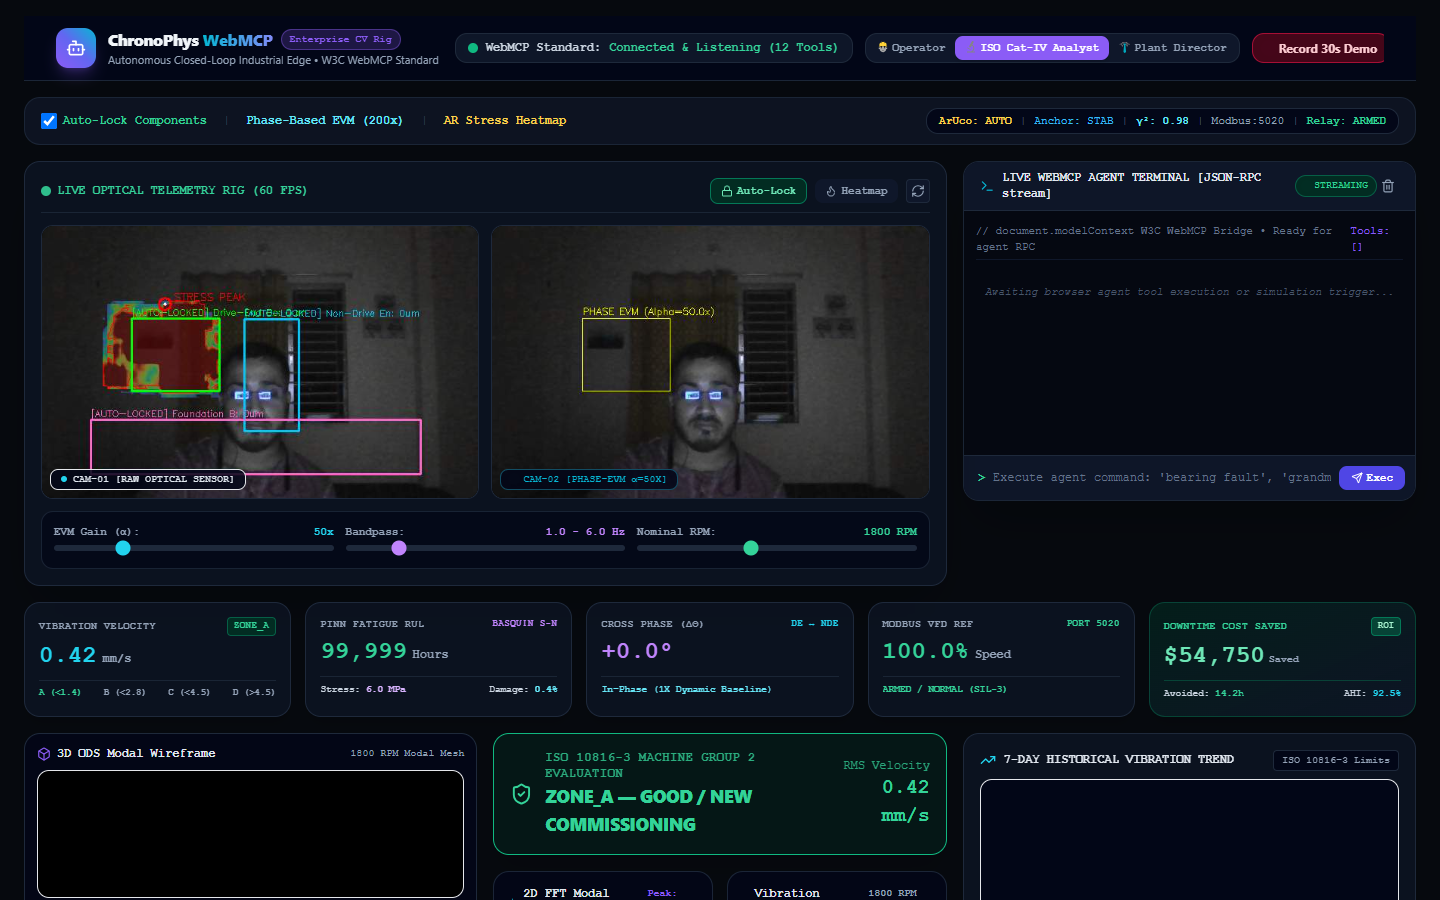
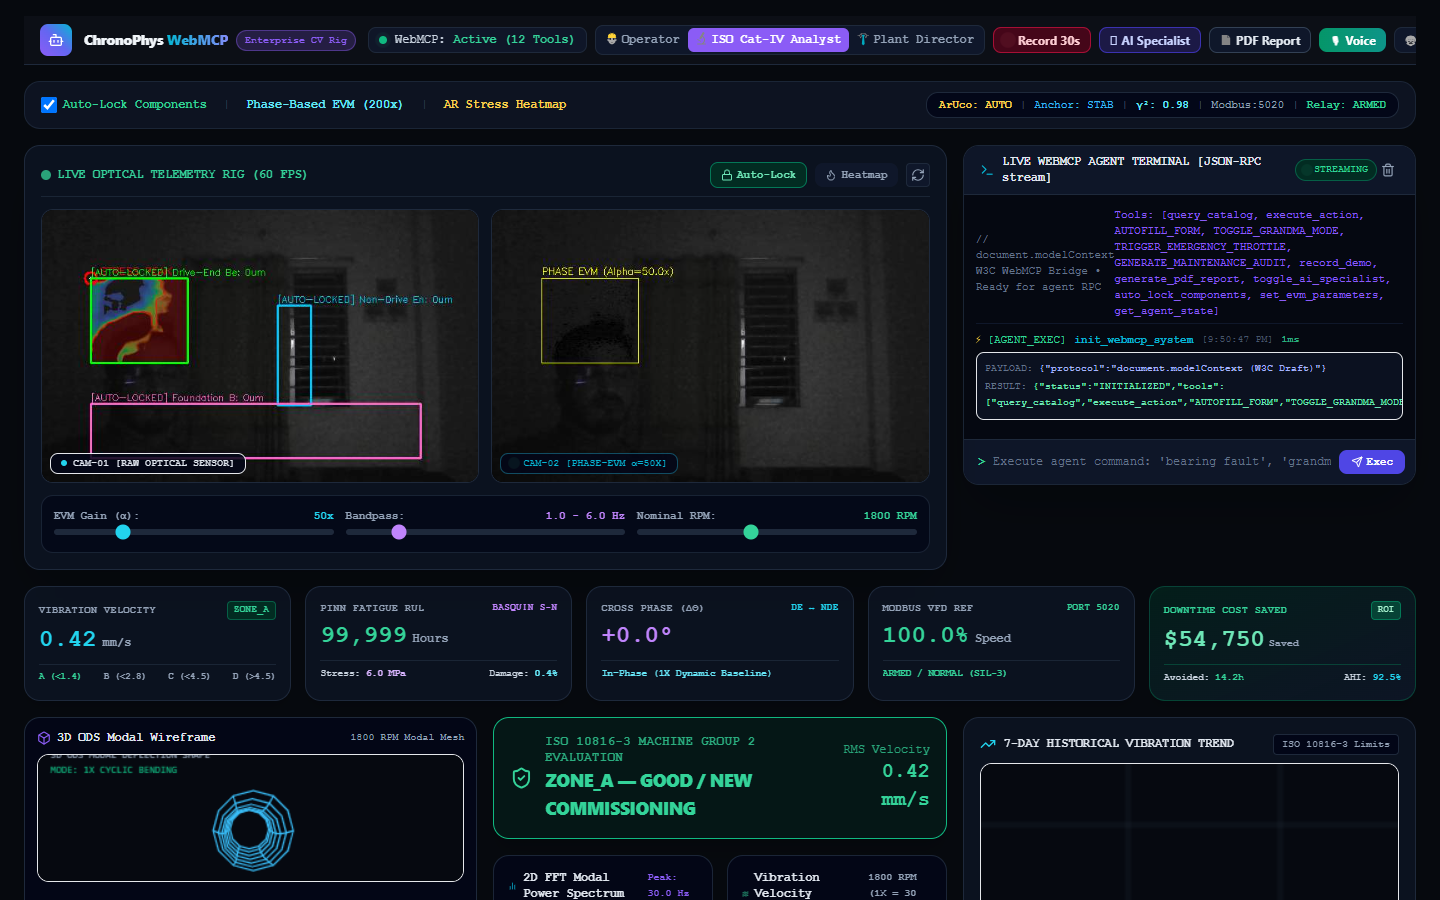
fix(navbar): refine top header layout to single-row flexbox with non-shrinking flex groups and compact button sizing

diff --git a/components/Navbar.tsx b/components/Navbar.tsx
@@ -1,17 +1,11 @@
 "use client";
 
-import React, { useState } from 'react';
+import React from 'react';
 import { useWebMCP } from './WebMCPProvider';
-import { dispatchWebMCPAction } from '@/lib/webmcp-tools';
 import { 
   Bot, 
-  Sparkles, 
   Terminal, 
-  Eye, 
-  CheckCircle2, 
-  Layers, 
   Zap,
-  Play
 } from 'lucide-react';
 
 interface NavbarProps {
@@ -41,32 +35,6 @@ export const Navbar: React.FC<NavbarProps> = ({
 }) => {
   const { isReady, registeredTools, grandmaMode, toggleGrandmaMode, activeActionEffect } = useWebMCP();
 
-  const handleSimulateNormal = () => {
-    dispatchWebMCPAction('RESET_STATE', {}, 'human-simulation', 'execute_action');
-    dispatchWebMCPAction('AUTOFILL_FORM', {
-      customerName: 'Engineering Commissioning Team',
-      email: 'plant.ops@megawatt-turbines.com',
-      company: 'Megawatt Energy Station 4',
-      serviceCategory: 'ai-edge',
-      urgencyLevel: 'standard',
-      notes: 'Commissioning baseline: 1800 RPM shaft vibration in ISO Zone A (v_RMS = 0.42 mm/s). Nominal structural stability.',
-      itemId: 'prod-001'
-    }, 'human-simulation', 'execute_action');
-  };
-
-  const handleSimulateBearingFault = () => {
-    dispatchWebMCPAction('FILTER_CATALOG', { category: 'industrial' }, 'human-simulation', 'execute_action');
-    dispatchWebMCPAction('AUTOFILL_FORM', {
-      customerName: 'Emergency Trip Control Desk',
-      email: 'safety-trip@val-verde.power',
-      company: 'Val Verde Hydroelectric Facility',
-      serviceCategory: 'industrial',
-      urgencyLevel: 'emergency',
-      notes: 'CRITICAL ALARM: BPFO high-frequency bearing outer-race fault detected at 142.5 Hz. v_RMS = 7.85 mm/s (ISO ZONE_D). Hardware SIL-3 trip required!',
-      itemId: 'prod-004'
-    }, 'human-simulation', 'execute_action');
-  };
-
   const roles: Array<{ id: 'operator' | 'analyst' | 'manager'; label: string; icon: string }> = [
     { id: 'operator', label: 'Operator', icon: '👷' },
     { id: 'analyst', label: 'ISO Cat-IV Analyst', icon: '🔬' },
@@ -74,160 +42,152 @@ export const Navbar: React.FC<NavbarProps> = ({
   ];
 
   return (
-    <header className="sticky top-0 z-40 w-full border-b border-slate-800/90 bg-slate-950/95 backdrop-blur-md">
-      <div className="w-full max-w-[1700px] mx-auto px-4 sm:px-6 lg:px-8 h-16 flex items-center justify-between gap-4">
-        
-        {/* Brand & Standard Tag */}
-        <div className="flex items-center space-x-3 flex-shrink-0">
-          <div className="w-10 h-10 rounded-xl bg-gradient-to-tr from-mcp-purple via-indigo-500 to-mcp-cyan flex items-center justify-center text-white shadow-lg shadow-mcp-purple/25">
-            <Bot className="w-5 h-5" />
-          </div>
-          <div>
-            <div className="flex items-center space-x-2">
-              <h1 className="font-extrabold text-sm sm:text-base text-slate-100 tracking-tight">
-                ChronoPhys <span className="text-transparent bg-clip-text bg-gradient-to-r from-mcp-cyan to-indigo-400">WebMCP</span>
-              </h1>
-              <span className="hidden sm:inline-flex text-[10px] font-mono px-2 py-0.5 rounded-full bg-mcp-purple/20 text-mcp-purple border border-mcp-purple/40 font-bold">
-                Enterprise CV Rig
-              </span>
-            </div>
-            <p className="text-[11px] text-slate-400">Autonomous Closed-Loop Industrial Edge • W3C WebMCP Standard</p>
-          </div>
+    <header className="w-full flex items-center justify-between px-4 py-2 bg-[#0c1017]/90 border-b border-slate-800 gap-3 whitespace-nowrap overflow-x-hidden sticky top-0 z-40 backdrop-blur-md">
+      
+      {/* Left Group: Logo + Brand + Standard Tag */}
+      <div className="flex items-center gap-3 flex-shrink-0">
+        <div className="w-8 h-8 rounded-lg bg-gradient-to-tr from-mcp-purple via-indigo-500 to-mcp-cyan flex items-center justify-center text-white shadow-md flex-shrink-0">
+          <Bot className="w-4 h-4" />
         </div>
-
-        {/* Action Indicators & Simulation Controls */}
-        <div className="flex items-center space-x-2 sm:space-x-3 overflow-x-auto py-1 scrollbar-none">
-          
-          {/* Active Action Pulse Notification */}
-          {activeActionEffect && (
-            <div className="hidden xl:flex items-center space-x-1.5 px-3 py-1 rounded-full bg-emerald-950/90 border border-emerald-400 text-emerald-300 text-xs font-mono animate-pulse shadow-[0_0_15px_rgba(52,211,153,0.3)]">
-              <Zap className="w-3.5 h-3.5 text-emerald-400" />
-              <span>Agent Event: <b className="text-white">{activeActionEffect}</b></span>
-            </div>
-          )}
-
-          {/* WebMCP Bridge Status Pill */}
-          <div className="flex items-center space-x-2 px-3 py-1.5 rounded-xl bg-slate-900/90 border border-slate-800 text-xs font-mono shadow-sm flex-shrink-0">
-            <span className="relative flex h-2.5 w-2.5">
-              <span className="animate-ping absolute inline-flex h-full w-full rounded-full bg-emerald-400 opacity-75"></span>
-              <span className="relative inline-flex rounded-full h-2.5 w-2.5 bg-emerald-500"></span>
-            </span>
-            <span className="text-slate-300 font-semibold hidden md:inline">
-              WebMCP Standard:
-            </span>
-            <span className="text-emerald-400 font-bold">
-              Connected & Listening ({registeredTools.length || 12} Tools)
-            </span>
-          </div>
-
-          {/* Enterprise Role Switcher (RBAC) */}
-          {onRoleChange && (
-            <div className="flex items-center bg-slate-900 border border-slate-800 rounded-xl p-0.5 text-[11px] font-mono font-bold flex-shrink-0">
-              {roles.map((r) => {
-                const isActive = userRole === r.id;
-                return (
-                  <button
-                    key={r.id}
-                    onClick={() => onRoleChange(r.id)}
-                    className={`px-2.5 py-1 rounded-lg transition flex items-center space-x-1 ${
-                      isActive
-                        ? 'bg-mcp-purple text-white shadow-md'
-                        : 'text-slate-400 hover:text-slate-200'
-                    }`}
-                    title={`Switch Role: ${r.label}`}
-                  >
-                    <span>{r.icon}</span>
-                    <span className="hidden lg:inline">{r.label}</span>
-                  </button>
-                );
-              })}
-            </div>
-          )}
-
-          {/* Record 30s Demo Button with Visual Countdown */}
-          {onRecordDemo && (
-            <button
-              onClick={onRecordDemo}
-              disabled={recordingSecondsLeft > 0}
-              className={`flex items-center space-x-1.5 px-3 py-1.5 rounded-xl border text-xs font-bold transition shadow-sm flex-shrink-0 ${
-                recordingSecondsLeft > 0
-                  ? 'bg-rose-600 text-white border-rose-400 animate-pulse shadow-[0_0_15px_rgba(244,63,94,0.6)]'
-                  : 'bg-rose-950/90 hover:bg-rose-900 border-rose-700/80 text-rose-200'
-              }`}
-              title="Record 30-second live multi-modal diagnostic session"
-            >
-              <span className="w-2 h-2 rounded-full bg-rose-400 animate-ping"></span>
-              <span>
-                {recordingSecondsLeft > 0 ? `Recording... ${recordingSecondsLeft}s` : 'Record 30s Demo'}
-              </span>
-            </button>
-          )}
-
-          {/* AI Specialist Modal Trigger */}
-          {onOpenAiSpecialist && (
-            <button
-              onClick={onOpenAiSpecialist}
-              className="flex items-center space-x-1.5 px-3 py-1.5 rounded-xl bg-indigo-950/90 hover:bg-indigo-900 border border-indigo-700/80 text-indigo-200 text-xs font-bold transition shadow-sm flex-shrink-0"
-              title="Open Gemini AI Vibration Diagnostic Specialist"
-            >
-              <span>🤖</span>
-              <span className="hidden sm:inline">AI Specialist</span>
-            </button>
-          )}
-
-          {/* PDF Report Generator Trigger */}
-          {onOpenPdfReport && (
-            <button
-              onClick={onOpenPdfReport}
-              className="flex items-center space-x-1.5 px-3 py-1.5 rounded-xl bg-slate-900 hover:bg-slate-800 border border-slate-700 text-slate-200 text-xs font-bold transition shadow-sm flex-shrink-0"
-              title="Generate certified ISO 17025 PDF compliance report"
-            >
-              <span>📄</span>
-              <span className="hidden sm:inline">PDF Report</span>
-            </button>
-          )}
-
-          {/* Voice Agent Trigger Button */}
-          {onOpenVoice && (
-            <button
-              onClick={onOpenVoice}
-              className="flex items-center space-x-1.5 px-3 py-1.5 rounded-xl bg-gradient-to-r from-emerald-600 to-teal-600 hover:from-emerald-500 hover:to-teal-500 text-white text-xs font-bold transition shadow-sm flex-shrink-0"
-              title="Hands-free plant voice-to-agent interface"
-            >
-              <span className="text-sm">🎙</span>
-              <span className="hidden sm:inline">Voice</span>
-            </button>
-          )}
-
-          {/* Grandma Mode Toggle Button */}
-          <button
-            onClick={toggleGrandmaMode}
-            className={`px-3 py-1.5 rounded-lg text-xs font-semibold flex items-center space-x-1.5 transition border ${
-              grandmaMode
-                ? 'bg-amber-400 text-slate-950 border-amber-300 shadow-lg shadow-amber-400/20'
-                : 'bg-slate-900 hover:bg-slate-800 text-slate-300 border-slate-800'
-            }`}
-            title="Toggle high-contrast Grandma Mode accessibility"
-          >
-            <span>👵</span>
-            <span className="hidden md:inline">{grandmaMode ? 'Grandma Active' : 'Grandma'}</span>
-          </button>
-
-          {/* Open Inspector Button */}
-          <button
-            onClick={onOpenInspector}
-            className={`p-2 rounded-lg border transition ${
-              isInspectorOpen 
-                ? 'bg-mcp-purple text-white border-mcp-purple' 
-                : 'bg-slate-900 text-slate-400 hover:text-white border-slate-800'
-            }`}
-            title="Toggle Agent Activity Inspector"
-          >
-            <Terminal className="w-4 h-4" />
-          </button>
-
+        <div className="flex items-center gap-2">
+          <h1 className="font-extrabold text-sm text-slate-100 tracking-tight">
+            ChronoPhys <span className="text-transparent bg-clip-text bg-gradient-to-r from-mcp-cyan to-indigo-400">WebMCP</span>
+          </h1>
+          <span className="hidden md:inline-flex text-[10px] font-mono px-2 py-0.5 rounded-full bg-mcp-purple/20 text-mcp-purple border border-mcp-purple/40 font-bold">
+            Enterprise CV Rig
+          </span>
         </div>
       </div>
+
+      {/* Right Group: Roles + Action Controls */}
+      <div className="flex items-center gap-2 flex-shrink-0">
+        
+        {/* Active Action Pulse Notification */}
+        {activeActionEffect && (
+          <div className="hidden xl:flex items-center gap-1.5 px-2.5 py-1 rounded-full bg-emerald-950/90 border border-emerald-400 text-emerald-300 text-xs font-mono animate-pulse">
+            <Zap className="w-3 h-3 text-emerald-400" />
+            <span>Agent: <b className="text-white">{activeActionEffect}</b></span>
+          </div>
+        )}
+
+        {/* WebMCP Bridge Status Pill */}
+        <div className="hidden lg:flex items-center gap-2 px-2.5 py-1 rounded-lg bg-slate-900/90 border border-slate-800 text-xs font-mono">
+          <span className="relative flex h-2 w-2">
+            <span className="animate-ping absolute inline-flex h-full w-full rounded-full bg-emerald-400 opacity-75"></span>
+            <span className="relative inline-flex rounded-full h-2 w-2 bg-emerald-500"></span>
+          </span>
+          <span className="text-slate-300 font-medium">WebMCP:</span>
+          <span className="text-emerald-400 font-bold">Active ({registeredTools.length || 12} Tools)</span>
+        </div>
+
+        {/* Enterprise Role Switcher (RBAC) */}
+        {onRoleChange && (
+          <div className="flex items-center bg-slate-900 border border-slate-800 rounded-lg p-0.5 text-xs font-mono font-bold">
+            {roles.map((r) => {
+              const isActive = userRole === r.id;
+              return (
+                <button
+                  key={r.id}
+                  onClick={() => onRoleChange(r.id)}
+                  className={`px-2 py-1 rounded-md transition flex items-center gap-1 text-xs ${
+                    isActive
+                      ? 'bg-mcp-purple text-white shadow-sm'
+                      : 'text-slate-400 hover:text-slate-200'
+                  }`}
+                  title={`Switch Role: ${r.label}`}
+                >
+                  <span>{r.icon}</span>
+                  <span className="hidden sm:inline text-xs">{r.label}</span>
+                </button>
+              );
+            })}
+          </div>
+        )}
+
+        {/* Record 30s Demo Button with Visual Countdown */}
+        {onRecordDemo && (
+          <button
+            onClick={onRecordDemo}
+            disabled={recordingSecondsLeft > 0}
+            className={`flex items-center gap-1.5 px-2.5 py-1 rounded-lg border text-xs font-bold transition shadow-sm ${
+              recordingSecondsLeft > 0
+                ? 'bg-rose-600 text-white border-rose-400 animate-pulse'
+                : 'bg-rose-950/90 hover:bg-rose-900 border-rose-700/80 text-rose-200'
+            }`}
+            title="Record 30-second live multi-modal diagnostic session"
+          >
+            <span className="w-2 h-2 rounded-full bg-rose-400 animate-ping"></span>
+            <span>
+              {recordingSecondsLeft > 0 ? `REC ${recordingSecondsLeft}s` : 'Record 30s'}
+            </span>
+          </button>
+        )}
+
+        {/* AI Specialist Modal Trigger */}
+        {onOpenAiSpecialist && (
+          <button
+            onClick={onOpenAiSpecialist}
+            className="flex items-center gap-1 px-2.5 py-1 rounded-lg bg-indigo-950/90 hover:bg-indigo-900 border border-indigo-700/80 text-indigo-200 text-xs font-bold transition shadow-sm"
+            title="Open Gemini AI Vibration Diagnostic Specialist"
+          >
+            <span>🤖</span>
+            <span className="hidden md:inline">AI Specialist</span>
+          </button>
+        )}
+
+        {/* PDF Report Generator Trigger */}
+        {onOpenPdfReport && (
+          <button
+            onClick={onOpenPdfReport}
+            className="flex items-center gap-1 px-2.5 py-1 rounded-lg bg-slate-900 hover:bg-slate-800 border border-slate-700 text-slate-200 text-xs font-bold transition shadow-sm"
+            title="Generate certified ISO 17025 PDF compliance report"
+          >
+            <span>📄</span>
+            <span className="hidden md:inline">PDF Report</span>
+          </button>
+        )}
+
+        {/* Voice Agent Trigger Button */}
+        {onOpenVoice && (
+          <button
+            onClick={onOpenVoice}
+            className="flex items-center gap-1 px-2.5 py-1 rounded-lg bg-gradient-to-r from-emerald-600 to-teal-600 hover:from-emerald-500 hover:to-teal-500 text-white text-xs font-bold transition shadow-sm"
+            title="Hands-free plant voice-to-agent interface"
+          >
+            <span>🎙</span>
+            <span className="hidden md:inline">Voice</span>
+          </button>
+        )}
+
+        {/* Grandma Mode Toggle Button */}
+        <button
+          onClick={toggleGrandmaMode}
+          className={`px-2.5 py-1 rounded-lg text-xs font-semibold flex items-center gap-1 transition border ${
+            grandmaMode
+              ? 'bg-amber-400 text-slate-950 border-amber-300 shadow-md font-bold'
+              : 'bg-slate-900 hover:bg-slate-800 text-slate-300 border-slate-800'
+          }`}
+          title="Toggle high-contrast Grandma Mode accessibility"
+        >
+          <span>👵</span>
+          <span className="hidden md:inline">{grandmaMode ? 'Grandma On' : 'Grandma'}</span>
+        </button>
+
+        {/* Open Inspector Button */}
+        <button
+          onClick={onOpenInspector}
+          className={`p-1.5 rounded-lg border transition ${
+            isInspectorOpen 
+              ? 'bg-mcp-purple text-white border-mcp-purple' 
+              : 'bg-slate-900 text-slate-400 hover:text-white border-slate-800'
+          }`}
+          title="Toggle Agent Activity Inspector"
+        >
+          <Terminal className="w-3.5 h-3.5" />
+        </button>
+
+      </div>
+
     </header>
   );
 };
